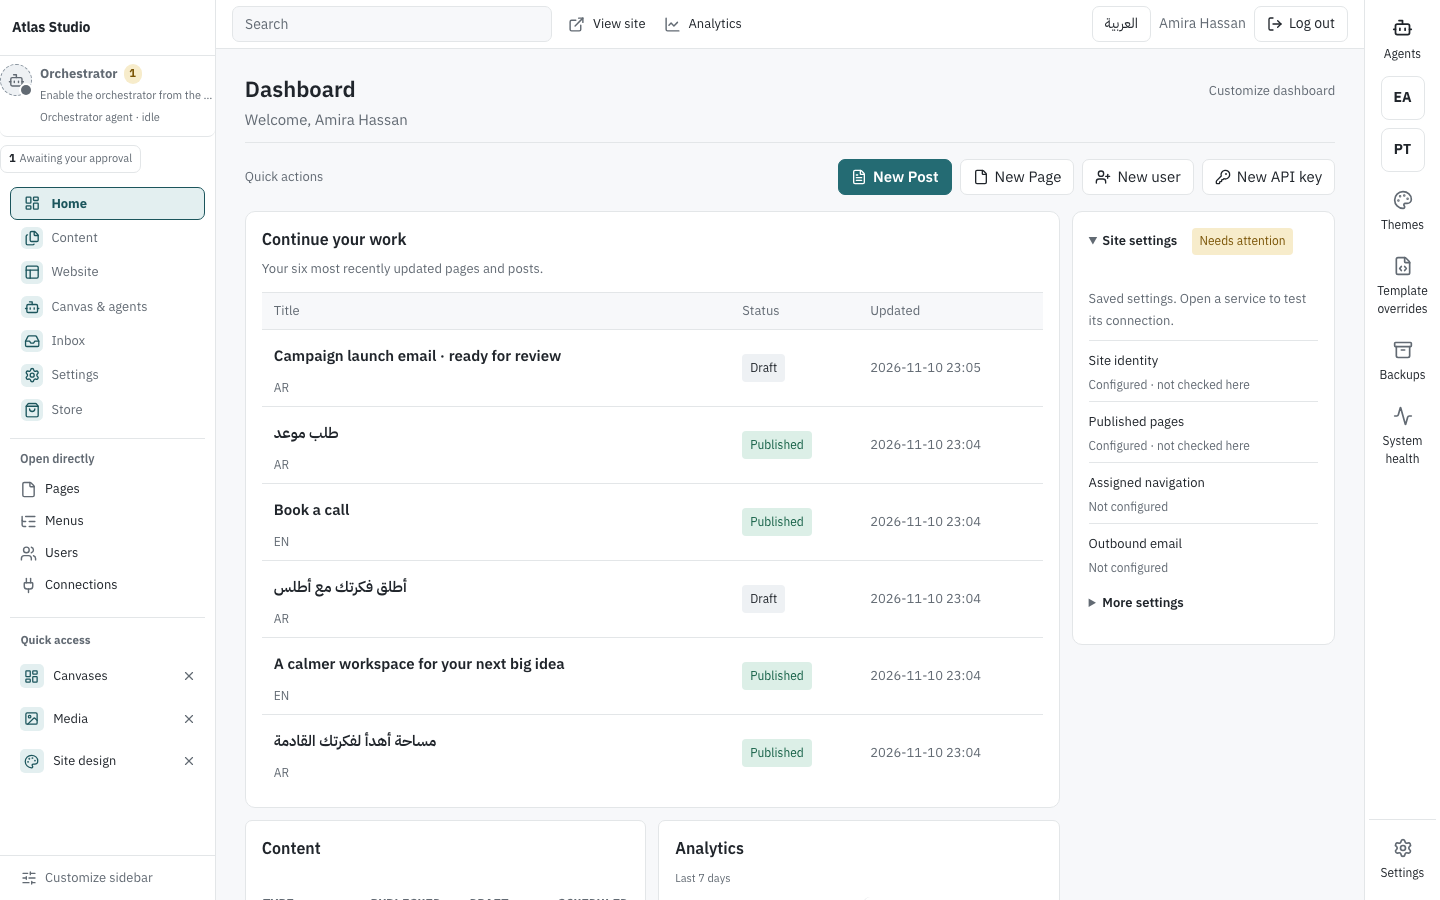
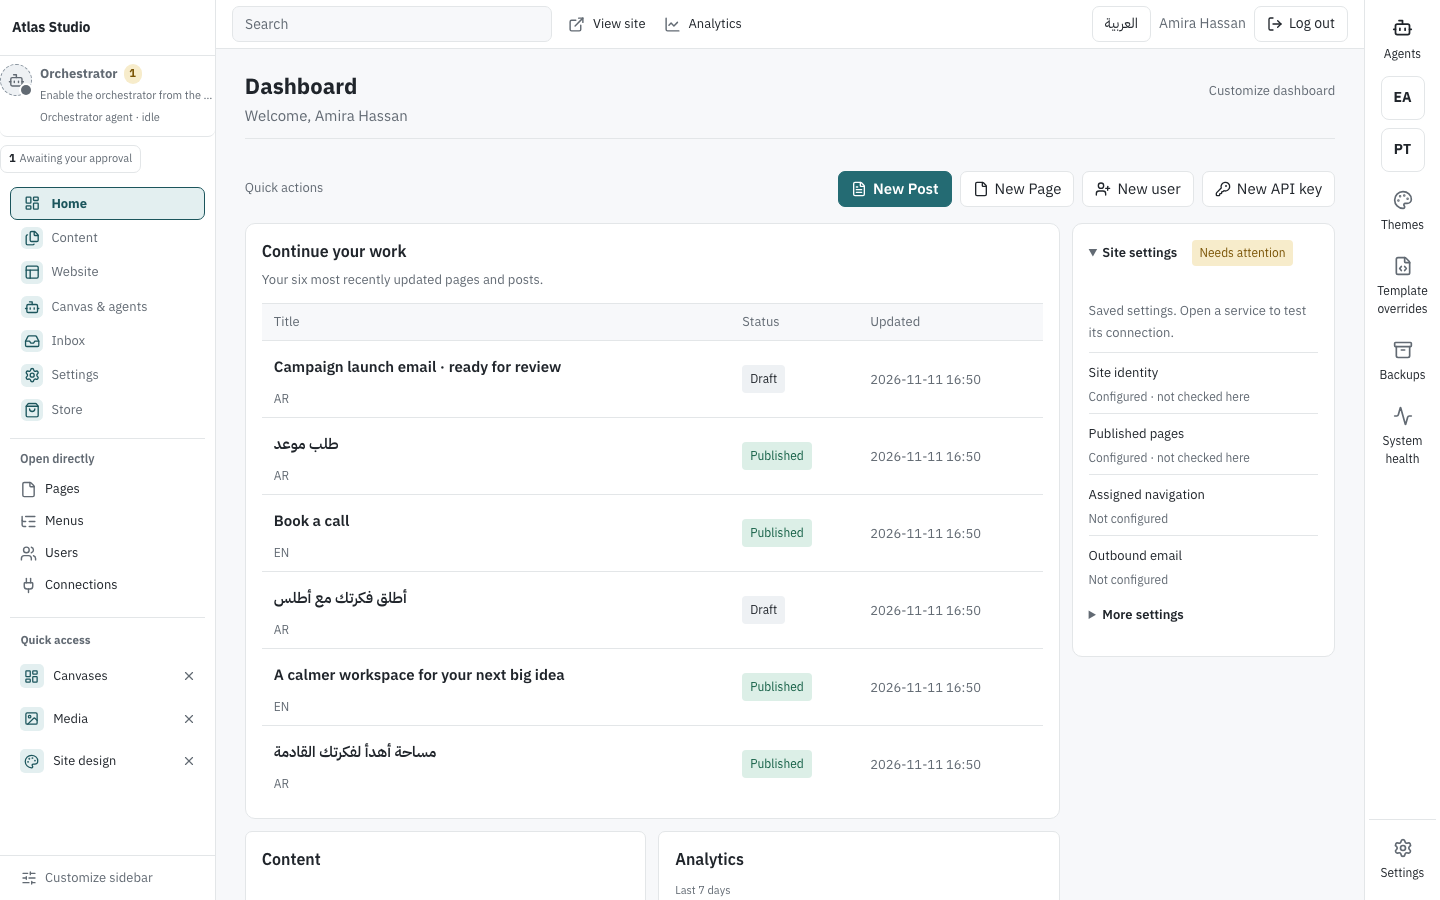
docs(admin): document admin components and refresh screenshots
Add docs/ADMIN_COMPONENTS.md, a DESIGN.md section and the changelog entry,
and refresh the README screenshots of the migrated pages.

diff --git a/docs/ADMIN_COMPONENTS.md b/docs/ADMIN_COMPONENTS.md
@@ -1,0 +1,81 @@
+# Admin components
+
+The admin shares one small component set, defined at the end of
+`web/admin/static/admin.css`. New and reworked admin pages use these classes
+instead of ad-hoc Tailwind utility strings, so buttons, titles, tables and
+dates look and behave the same everywhere. Direction and colours follow
+[DESIGN.md](../DESIGN.md): light surfaces, petrol (`--accent`) for actions and
+selection, green only for success, amber and red for warning and error.
+
+## Tokens
+
+Defined on `:root` in `admin.css`. Older rules keep working through aliases
+(`--radius`, `--radius-chip`, `--admin-space-*`).
+
+| Token | Values |
+|---|---|
+| Type scale | `--fs-xs` 11px · `--fs-sm` 12px · `--fs-md` 13px · `--fs-base` 14px · `--fs-lg` 16px · `--fs-xl` 18px · `--fs-2xl` 22px (page titles) |
+| Radius | `--radius-sm` 4px (badges, chips) · `--radius-md` 7px (controls, panels) |
+| Spacing | `--space-1` … `--space-6` (0.25rem steps to 1.5rem) |
+| Controls | `--control-h` 36px · `--control-h-sm` 30px · `--control-h-touch` 44px (every `.btn` on phones) |
+| Colour | the existing `--ink`, `--muted`, `--line`, `--panel`, `--bg`, `--accent*`, `--green*`, `--amber*`, `--red*` |
+
+## Components
+
+| Class | Use |
+|---|---|
+| `.btn` + `.btn-primary` / `.btn-secondary` / `.btn-ghost` / `.btn-danger`, optional `.btn-sm` | Every button or button-like link. One `.btn-primary` per page area. |
+| `.field` with `.field-label`, `.field-help`, `.field-error`; `.field-control` for a lone input | Form controls. `.field-row` lays fields out in a wrapping row. |
+| `partials/page-header` (`.page-header`) | Page title, subtitle, back link, muted ID disclosure, primary and secondary action. |
+| `.section-head` + `.section-title` | Headings inside a page. |
+| `.data-table-wrap` + `.data-table` | Tables. Cells: `.num`, `.actions`, `.row-link`, `.cell-sub`; `.row-actions` keeps row buttons on one line. |
+| `.badge` + `.badge-success` / `.badge-warning` / `.badge-danger` / `.badge-info` | Status labels. Neutral by default. |
+| `.empty-state` | An empty list: say what is missing and, where useful, the next action. |
+| `.kv` | Key/value lists (`<dl class="kv"><div><dt>…</dt><dd>…</dd></div></dl>`); one column on phones. |
+| `.meta-row` + `.meta-item` | Inline "label value" metadata. Each item is a flex item, so Arabic and Latin values never reorder across items. |
+| `.card` + `.card-head` / `.card-body` / `.card-foot` | Only for a grouped unit such as a form or a request, never for every row. |
+| `.raw-detail` | A `<details>` for raw JSON or other secondary payloads. |
+| `.id-detail` | A raw identifier (ULID) that stays out of the visible text. |
+| `.avatar` (`.avatar-user`) | Initials from the `initials` template function. |
+
+## Page header partial
+
+```gotemplate
+{{template "partials/page-header" (dict
+  "Title" (t "admin.keys.title") "Subtitle" (t "admin.keys.subtitle")
+  "Action" "#key-create" "ActionLabel" (t "admin.keys.new") "ActionIcon" "plus"
+  "ActionHook" (dataAttr "key-create-open"))}}
+```
+
+Keys: `Title` (required), `TitleDir` (`auto` for user-entered titles), `Subtitle`,
+`Back` + `BackLabel`, `ID`, `Class`, `Action` + `ActionLabel` (+ `ActionIcon`,
+`ActionHook`), `Secondary` + `SecondaryLabel` (+ `SecondaryIcon`). `dict`
+builds the argument map; `dataAttr` adds one `data-*` hook for scripts and tests.
+
+## Dates and times
+
+There is one output for timestamps: the short UTC form `2026-11-10 18:04`,
+left to right, with the full value in the tooltip.
+
+- Templates: `{{datetime .CreatedAt}}` renders
+  `<time datetime="2026-11-10T18:04:58Z" dir="ltr" title="2026-11-10 18:04:58 UTC">2026-11-10 18:04</time>`
+  (an optional second argument adds a class). Empty values render `—`.
+  `{{date .X}}` returns the same short text without markup, for use inside
+  translated strings.
+- Scripts: `window.gpDateTime.element(value)` builds the same `<time>` element
+  and `window.gpDateTime.format(value)` returns the text
+  (`web/admin/static/datetime.js`, loaded on every admin page). Do not use
+  `toLocaleString()` for admin timestamps.
+
+## Mixed-direction values
+
+Names, keys, brands and other user values inside translated text go in
+`<bdi>` (or their own element in a `.meta-row`), so an English key name in an
+Arabic sentence keeps its place. IDs, slugs and code use `dir="ltr"`.
+
+## Migrated pages
+
+Agent channels (list and thread), API keys, agent approvals, private reports
+(list and detail), the forms inbox (form entries and form submissions) and the
+dashboard page header use these components. Other admin pages still use their
+earlier utility classes and move over page by page.

diff --git a/DESIGN.md b/DESIGN.md
@@ -5,6 +5,10 @@ Product context: PRODUCT.md.
 ## Administrative workspace
 All administration pages share a cool neutral work surface (#f7f8fa), white panels, charcoal ink (#20252b), secondary text (#626a73), quiet dividers (#e3e6e8), and restrained petrol (#246b73) action/selection states. Green (#167252) means success; amber and red mean warning and error. Navigation uses the same petrol selection color across categories. The shared admin.css variables own this palette, including authentication and the admin membership surface; public membership retains its published site identity. Flat white sidebar and topbar keep the working area calm. Compact desktop density with 44px mobile controls. Familiar sidebar, search topbar, content area; detail disclosure reduces metadata noise. Self-hosted Zad typography, Arabic RTL with normal letter spacing, logical CSS dimensions and explicit keyboard focus.
 
+### Shared admin components
+
+Admin pages build on one component set in `admin.css`: a type scale (11–22px), two radii (4px badges, 7px controls and panels), a spacing scale, `.btn` variants (petrol primary, secondary, ghost, danger), `.field`, the `partials/page-header` header, `.data-table`, `.badge`, `.empty-state`, `.kv` and `.card` only for grouped units. Timestamps have one output (short UTC `2026-11-10 18:04`, left to right, full value in the tooltip) in templates and scripts. User values inside translated text are isolated with `<bdi>`; raw IDs and JSON sit behind a disclosure, never as primary content. Details and migration status: [docs/ADMIN_COMPONENTS.md](docs/ADMIN_COMPONENTS.md).
+
 ### Dashboard workspace
 
 The dashboard uses a neutral cool-gray background (`--bg: #f7f8fa`), dark ink (`--ink: #20252b`), secondary text (`--muted: #626a73`) and quiet dividers (`--line: #e3e6e8`). Content and data panels use white surfaces with subtle 10px corners. Supporting sections use flat rows and native disclosure instead of additional framed cards. Empty pinned tools and canvas sections start collapsed; populated pins and canvases with boards or activity start open. Pin disclosure state and summary focus survive background refreshes. One petrol quick action leads; localized status labels retain restrained green, amber or petrol fills. The compact desktop default places daily actions across the top, content and statistics in the main area, settings and pinned tools in the utility rail (left in Arabic), and operational summaries below the main area. Grid gaps are 12px and panel padding is 16px. Four common settings are visible; the remaining settings use a labeled native disclosure. Setup starts open on desktop and closes initially on phones through progressive enhancement. Personal widget ordering remains available as a saved flowing layout; reset restores the distributed default. The existing Zad font remains. The compact widget composition applies to the dashboard; its neutral palette is shared by every administration page. Content previews, saved public identities and meaningful data/node categories retain their own colors.

diff --git a/CHANGELOG.md b/CHANGELOG.md
@@ -5,6 +5,20 @@ All notable changes to GoRun are recorded here. The format follows
 
 ## [Unreleased]
 
+### Added
+
+- Shared admin component foundation (docs/ADMIN_COMPONENTS.md): type, radius and spacing tokens plus `.btn`, `.field`, `.data-table`, `.badge`, `.empty-state`, `.kv`, `.card` and a `partials/page-header` template with title, subtitle, back link, muted ID disclosure and actions.
+- One date/time output: the `datetime` template function and the `gpDateTime` script helper render `<time dir="ltr">` with the short UTC value and the full value in the tooltip.
+
+### Changed
+
+- Agent channels use the components: members are picked from the owner's agent keys by name (no free-text member ID), raw IDs move into a small ID disclosure, and messages show author initials, time and a hand-off chip with a petrol send button.
+- API keys have one primary "New API key" action in the page header and compact Rotate/Revoke row actions.
+- Agent approvals show arguments as a key/value list with the raw JSON in a disclosure; key and requester names are isolated so Arabic layouts no longer scramble them.
+- Private reports show "Report · date" in the list and the report category on the detail page instead of IDs.
+- The forms inbox shows formatted times, status badges, an entry count and a compact filter bar; form submissions and form entry pages use the same date format.
+- Canvas recovery and the agents drawer show timestamps through the shared helper instead of `toLocaleString()`.
+
 ## [0.21.0] - 2026-11-11
 
 ### Added

diff --git a/docs/README.md b/docs/README.md
@@ -41,6 +41,7 @@ Operator and product docs for self-hosting GoRun. Start with install, then first
 | [THEME-DEVELOPMENT.md](THEME-DEVELOPMENT.md) | Step-by-step theme tutorial (AR/EN) |
 | [THEME-CONTRACT.md](THEME-CONTRACT.md) | Catalog theme contract checked by `pkg/themekit` and `gorun theme doctor` |
 | [ADMIN_WORKSPACE.md](ADMIN_WORKSPACE.md) | Bilingual admin (AR/EN, RTL), dashboard pins, sidebar |
+| [ADMIN_COMPONENTS.md](ADMIN_COMPONENTS.md) | Admin design tokens, shared components, page header, date/time output |
 | [SIDEBAR-QUICK-ACCESS.md](SIDEBAR-QUICK-ACCESS.md) | Personal quick-access shortcuts in the main sidebar |
 
 ## Agents and integrations / الوكلاء والتكاملات
